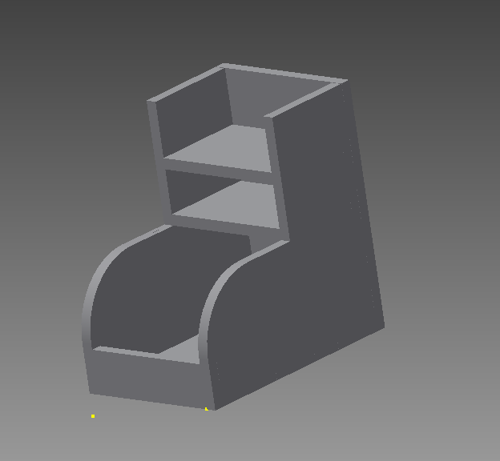
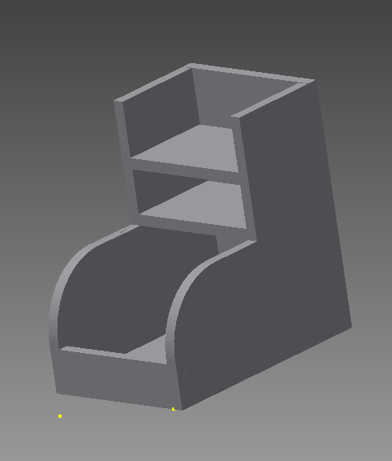
20

Changed region(s): [[0.3061, 0.1215, 0.9184, 0.9111], [0.1224, 0.5163, 0.2755, 0.8807], [0.2449, 0.7592, 0.2755, 0.7896]]

diff --git a/coursework.html b/coursework.html
@@ -220,9 +220,8 @@ living, moving system.</p>
 										<a class="author"><span class="name">Coursework</span><img src="images/journal.png" alt="" /></a>
 									</div>
 								</header>
-								<a class="image featured"><img src="images/organizer.png" style="width: 100%" /></a>
+								<a class="image featured"><img src="images/desk.jpg" style="width: 100%" /></a>
 								<p> In Product Design I created a desk organizer for my office supplies. First, I created a 3D model of my design using Inventor. I used finger joints to hold the sides together and dado joints to slide the shelves in. </p>
-								<a class="image featured"><img src="images/IMAG0887.jpg" style="width: 100%" /></a>
 								<p>Then I used a CNC router to cut out each of the pieces. Finally, I assembled the pieces together and painted the finished product.</p>
 							</article>
 

diff --git a/projects.html b/projects.html
@@ -12,6 +12,10 @@
 		<!--[if lte IE 8]><script src="assets/js/ie/html5shiv.js"></script><![endif]-->
 		<link rel="stylesheet" href="assets/css/main.css" />
 		<!--[if lte IE 9]><link rel="stylesheet" href="assets/css/ie9.css" /><![endif]-->
+		<style> .post {
+			padding-left: 20% ;
+			padding-right: 20%;
+		} </style>
 		<!--[if lte IE 8]><link rel="stylesheet" href="assets/css/ie8.css" /><![endif]-->
 	</head>
 	<body class="single">

diff --git a/experience.html b/experience.html
@@ -13,6 +13,10 @@
 		<link rel="stylesheet" href="assets/css/main.css" />
 		<!--[if lte IE 9]><link rel="stylesheet" href="assets/css/ie9.css" /><![endif]-->
 		<!--[if lte IE 8]><link rel="stylesheet" href="assets/css/ie8.css" /><![endif]-->
+		<style> .post {
+			padding-left: 20% ;
+			padding-right: 20%;
+		} </style>
 	</head>
 	<body class="single">
 

diff --git a/extracurriculars.html b/extracurriculars.html
@@ -13,6 +13,10 @@
 		<link rel="stylesheet" href="assets/css/main.css" />
 		<!--[if lte IE 9]><link rel="stylesheet" href="assets/css/ie9.css" /><![endif]-->
 		<!--[if lte IE 8]><link rel="stylesheet" href="assets/css/ie8.css" /><![endif]-->
+		<style> .post {
+			padding-left: 20% ;
+			padding-right: 20%;
+		} </style>
 	</head>
 	<body class="single">
 
